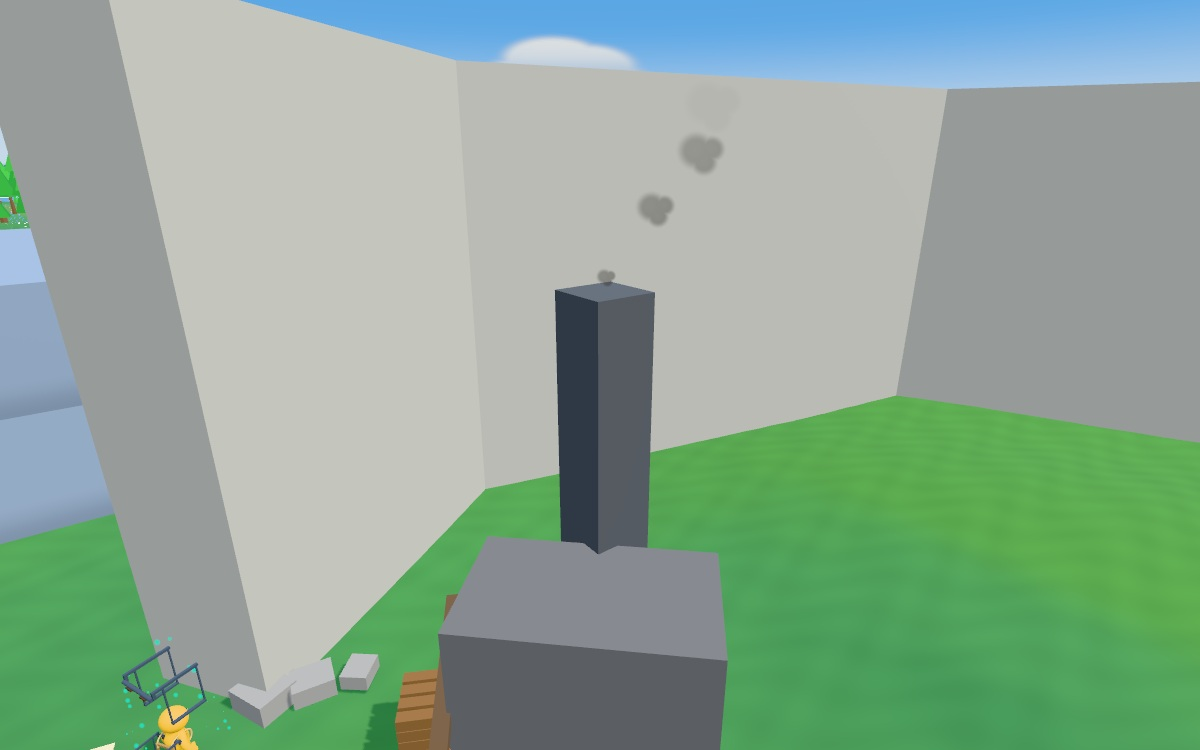
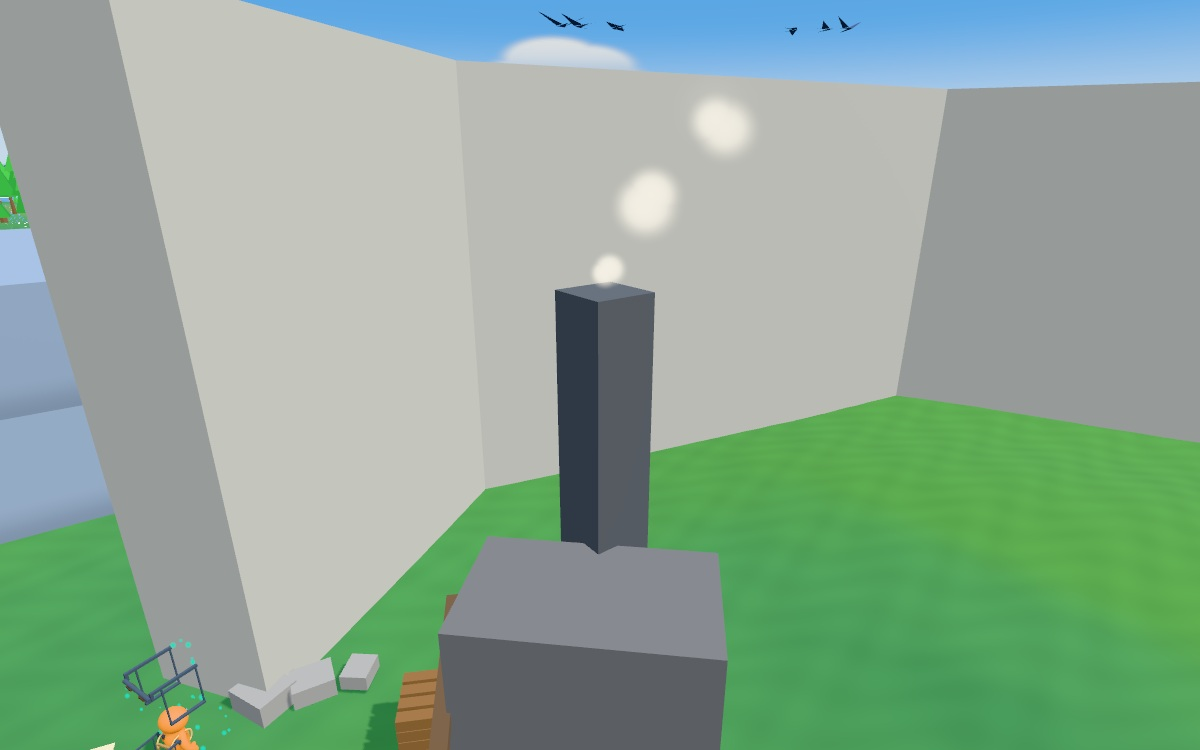
Light stack steam from the sky and sun and soften its silhouette

diff --git a/src/render/particle-effects.ts b/src/render/particle-effects.ts
@@ -3,7 +3,7 @@ import * as THREE from 'three/webgpu';
 import { reducedMotion } from '../constants.ts';
 import { emit, type Particle } from './particles.ts';
 import { readableIntensity } from './readable-unlit.ts';
-import { camera } from './scene.ts';
+import { camera, hemi, sun } from './scene.ts';
 
 /** Small typed authoring surface; visual-only, never saved or sent to another player. */
 const particleEffects = {
@@ -14,11 +14,13 @@ const particleEffects = {
 };
 const timber = [new THREE.Color('#e5b77c'), new THREE.Color('#bb793e'), new THREE.Color('#f2d2a0')];
 const stone = new THREE.Color('#9caaa9');
+const steamAlbedo = new THREE.Color('#eee8dc');
+const skyFill = new THREE.Color();
 const steam: Particle = {
   x: 0,
   y: 0,
   z: 0,
-  color: new THREE.Color('#eee8dc'),
+  color: new THREE.Color(),
   shape: 'puff',
   size: 0.6,
   life: 3,
@@ -39,7 +41,14 @@ export function stackPuff(x: number, y: number, z: number, size: number) {
   steam.x = x;
   steam.y = y;
   steam.z = z;
-  steam.size = size;
+  // The sprite pool blends scene-linear radiance. Light this scattering volume at birth,
+  // as for the water's diffuse surface, before the shared exposure and tone mapping.
+  skyFill.copy(hemi.color).multiplyScalar(hemi.intensity / Math.PI);
+  steam.color.copy(sun.color).multiplyScalar(sun.intensity / Math.PI).add(skyFill).multiply(steamAlbedo);
+  steam.size = size * (1.25 + Math.random() * 0.45);
+  steam.rotation = Math.random() * Math.PI * 2;
+  steam.vz = (Math.random() - 0.5) * 0.36;
+  steam.vy = 1.45 + Math.random() * 0.4;
   emit(steam);
 }
 const dust = new THREE.Color('#cdbb9a'),

diff --git a/src/render/particle-pool.ts b/src/render/particle-pool.ts
@@ -262,13 +262,12 @@ export function createParticlePool(renderer: THREE.WebGPURenderer, now = () => p
       alpha.assign(dustA);
     });
     If(shape.equal(5), () => {
-      // Three overlapping round lobes soften into one breath as it expands.
-      const body = length(p.sub(vec2(-0.18, 0.08))).div(0.66);
-      const billow = length(p.sub(vec2(0.30, 0.14))).div(0.46);
-      const foot = length(p.sub(vec2(0.06, -0.26))).div(0.48);
-      const rim = min(body, min(billow, foot));
-      alpha.assign(smoothstep(0.46, 1, rim).oneMinus());
-      shade.assign(clamp(p.y.sub(p.x).mul(0.3).add(rim.oneMinus().mul(0.38)).add(0.82), 0.55, 1.3));
+      // Broad overlapping volumes share a soft rim even when the whole puff is only a few pixels.
+      const body = length(rotated.add(vec2(0.08, 0.04))).div(0.86);
+      const billow = length(rotated.sub(vec2(0.16, 0.09))).div(0.76);
+      const rim = min(body, billow);
+      alpha.assign(smoothstep(0.24, 1, rim).oneMinus());
+      shade.assign(clamp(p.y.sub(p.x).mul(0.12).add(rim.oneMinus().mul(0.25)).add(0.82), 0.7, 1.12));
     });
     return vec4(c.xyz.mul(shade), c.w.mul(alpha));
   })();

diff --git a/docs/plans/living-world.md b/docs/plans/living-world.md
@@ -17,3 +17,5 @@ Step 1 adds zero draws, vertices, textures or custom uniforms. Each crown vertex
 Step 2 reuses the spare keep-map channel for the Camp ridge bend and the tread mask for its verge. The near tuft batch before and after is one draw and 23,000 triangles on desktop, one draw and 9,200 triangles on phone. No new texture, render pass, per-frame allocation or CPU update.
 
 Step 3 uses the existing particle pool and sprite draw. Only live puff slots sample the wind during compute. Each resident stack uses its existing view update, with births within 90 m of the camera. Ambient intervals are 0.65 s for the awake layer, 0.8 s for the lit forge and 0.85 s for the lit kiln. Lower Detail doubles those intervals. The operator's chuff still follows the machine's movement. Puffs expand and fade over three seconds.
+
+The sun and sky fill light the cream pigment at birth so the puffs share the scene exposure. Two overlapping soft volumes give each puff one round outline. Births vary in diameter, orientation, rise and lateral velocity. [Working layer](living-world/working-stack-motion.jpg), [lit kiln](living-world/lit-kiln.jpg), [lit forge](living-world/lit-forge.jpg).
